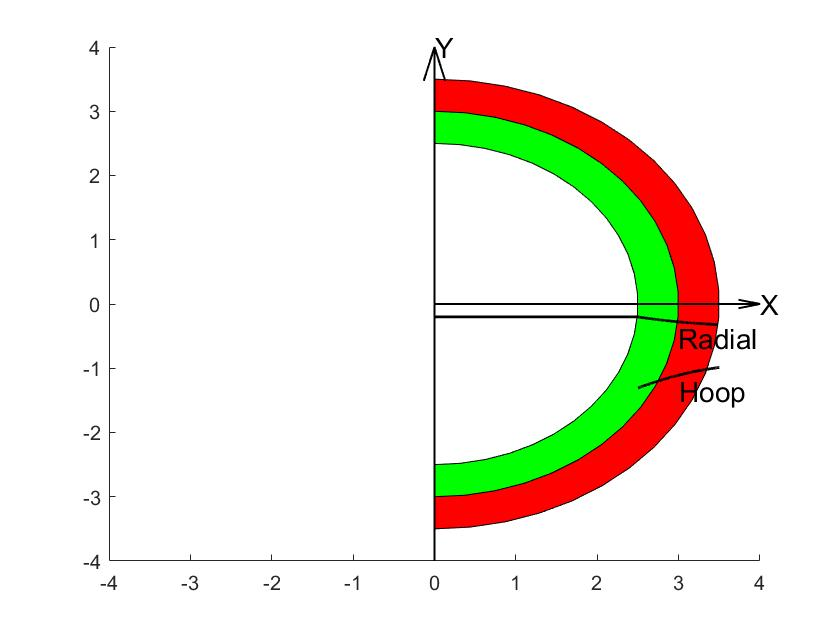
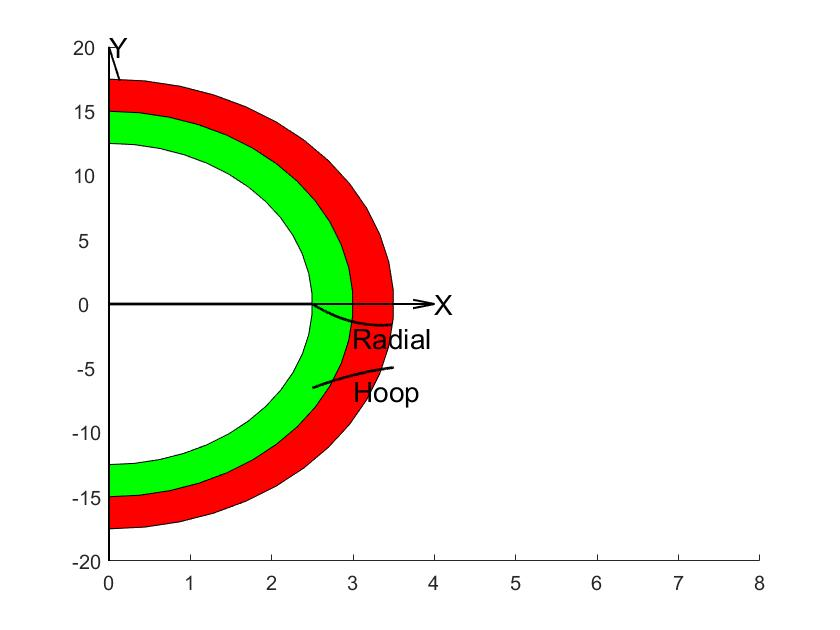
Changes made to QB2 schematic 2
Done to accommodate for y = 0 at x = 2.5

diff --git a/StressDistibutionPipe.m b/StressDistibutionPipe.m
@@ -55,7 +55,7 @@ if strcmp(Case, 'case 1')
 elseif strcmp(Case, 'case 2')
     devider = 5;
     % Radial Stress
-    yRadial = [-1; -1.45; -1.6]/devider;
+    yRadial = [0; -1.2; -1.6]/devider;
     % Inner point
     t = asin((yRadial(1) - y)/rInner);
     xpointInner = rInner * cos(t) + x;
@@ -66,7 +66,7 @@ elseif strcmp(Case, 'case 2')
     xRadial = [xpointInner; midPoint; xpointOuter]; % [2.2913; 2.8; 3.1129];
     [XRadialPoints, YRadialPoints] = CurveDataPoints(xRadial, yRadial);
     XRadialPoints = [0 XRadialPoints];
-    YRadialPoints = [-1/devider YRadialPoints];
+    YRadialPoints = [0 YRadialPoints];
     % plot(XRadialPoints, YRadialPoints, 'g')
     % Hoop
     % dataPoints2.HoopStress = [-6.54 -5.54 -4.94];
